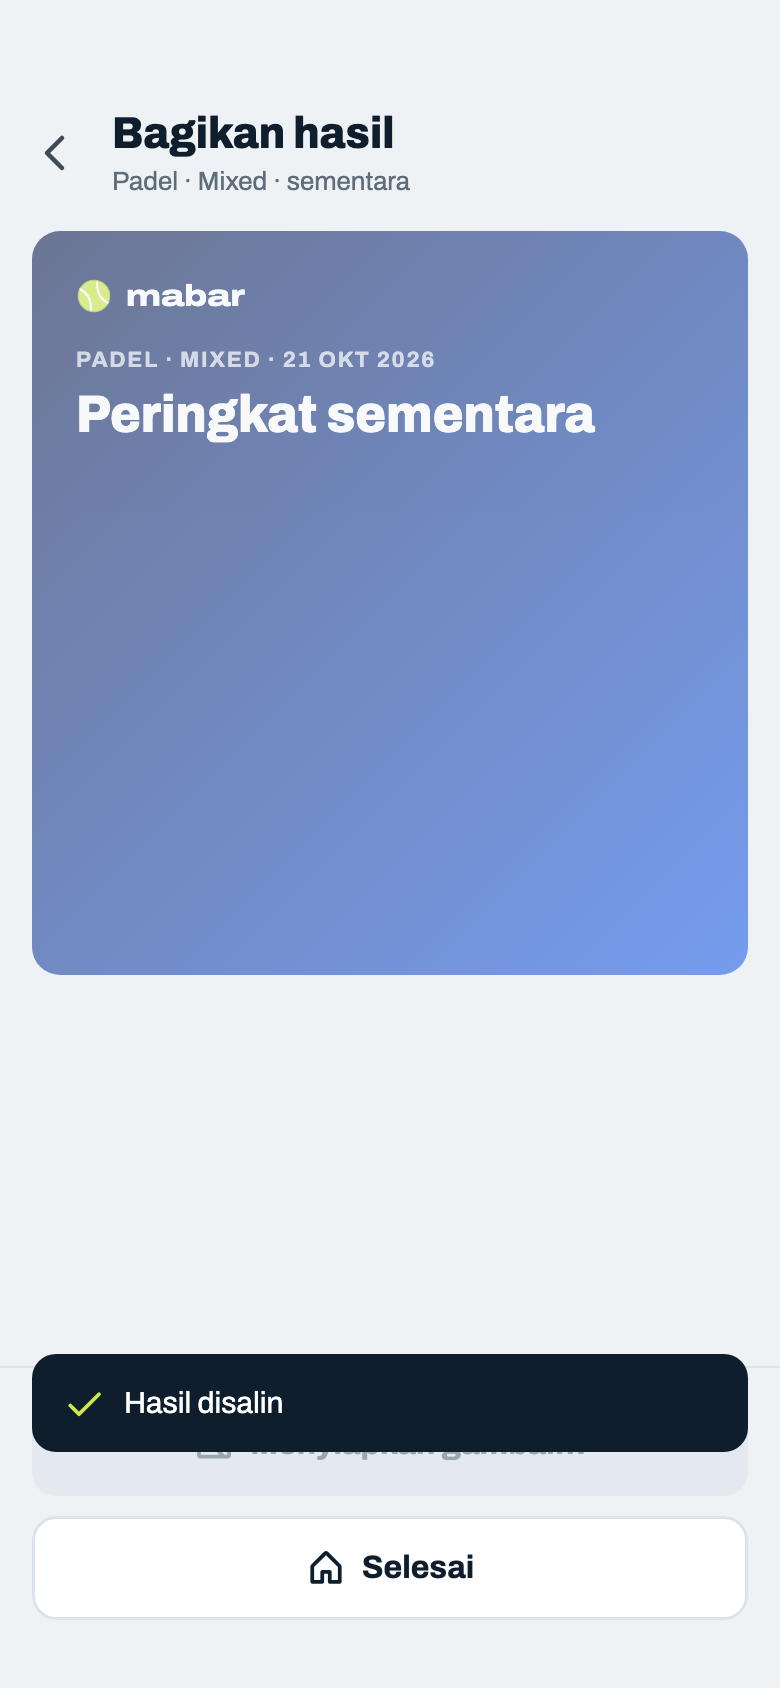
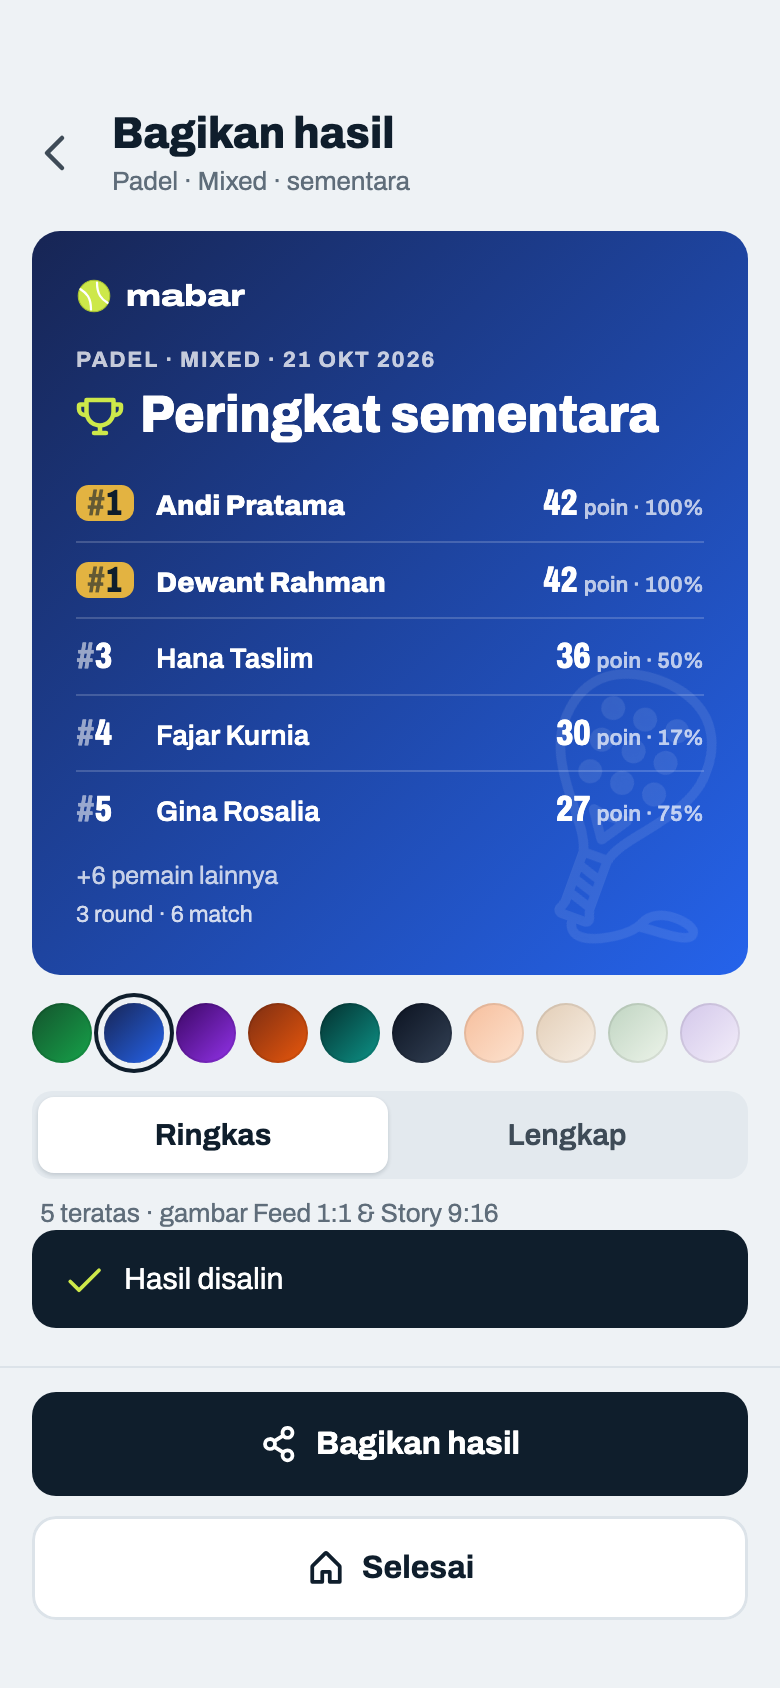
[major] Bagikan: golden 11c (share gagal) + toast di atas action bar
Keputusan host 2026-10-22: 11c menggambar layar Bagikan lengkap pada momen sesudah share gagal (tombol
aktif lagi, toast "Hasil disalin"); "Menyiapkan gambar…" tetap perilaku saat render. Toast selalu 19 pt di
atas action bar — showMabarToast mendapat jarak bawah opsional, layar Bagikan mengisinya dengan tinggi
action bar dua tombol (bawah toast 180 pt) supaya tidak menutupi "Bagikan hasil". Hi-fi + Cakupan
diperbarui, frame 11c dirender ulang, artifact v49.

diff --git a/design/hifi.html b/design/hifi.html
@@ -2054,19 +2054,39 @@ Citra L<span class="caret"></span></div><div class="tools"><span class="txtbtn">
     </div>
 
     <div class="scr">
-      <div class="cap"><b>11c</b><span>Menyiapkan gambar · gagal share</span></div>
+      <div class="cap"><b>11c</b><span>Gagal share · hasil disalin</span></div>
       <div class="app">
         <div class="appbar"><span class="icbtn"><svg class="ic"><use href="#i-back"/></svg></span><div class="t"><h1>Bagikan hasil</h1><p>Padel · Mixed · sementara</p></div></div>
         <div class="body" style="gap:14px">
-          <div class="poster" style="height:372px;background:linear-gradient(135deg,#172554,#2563EB);color:#fff;opacity:.6">
-            <div class="pin"><div style="display:flex;align-items:center;gap:7px;font-size:15px;font-weight:800;font-stretch:125%"><svg width="18" height="18" aria-hidden="true"><use href="#ball"/></svg>mabar</div><span class="eyebrow" style="margin-top:14px">Padel · Mixed · 21 Okt 2026</span><h3>Peringkat sementara</h3></div>
+          <div class="poster" style="height:372px;background:linear-gradient(135deg,#172554,#2563EB);color:#fff">
+            <img class="wm" src="img/racket_padel.png" alt="" style="filter:brightness(0) invert(1);transform:rotate(20deg)">
+            <div class="pin">
+              <div style="display:flex;align-items:center;gap:7px;font-size:15px;font-weight:800;font-stretch:125%"><svg width="18" height="18" aria-hidden="true"><use href="#ball"/></svg>mabar</div>
+              <span class="eyebrow" style="margin-top:14px">Padel · Mixed · 21 Okt 2026</span>
+              <h3><svg class="ic" style="color:#CDE84A"><use href="#i-trophy"/></svg>Peringkat sementara</h3>
+              <div style="margin-top:12px">
+                <div class="prow gold"><b class="r n">1</b><span class="nm">Andi Pratama</span><b class="pt n">42<small>poin · 100%</small></b></div>
+                <div class="prow gold"><b class="r n">1</b><span class="nm">Dewant Rahman</span><b class="pt n">42<small>poin · 100%</small></b></div>
+                <div class="prow"><b class="r n">3</b><span class="nm">Hana Taslim</span><b class="pt n">36<small>poin · 50%</small></b></div>
+                <div class="prow"><b class="r n">4</b><span class="nm">Fajar Kurnia</span><b class="pt n">30<small>poin · 17%</small></b></div>
+                <div class="prow"><b class="r n">5</b><span class="nm">Gina Rosalia</span><b class="pt n">27<small>poin · 75%</small></b></div>
+              </div>
+              <span class="more">+6 pemain lainnya</span>
+              <div class="foot"><span>3 round · 6 match</span></div>
+            </div>
           </div>
+          <div class="themes">
+            <span class="theme" style="background:linear-gradient(135deg,#14532D,#16A34A)"></span><span class="theme on" style="background:linear-gradient(135deg,#172554,#2563EB)"></span><span class="theme" style="background:linear-gradient(135deg,#3B0764,#9333EA)"></span><span class="theme" style="background:linear-gradient(135deg,#7C2D12,#EA580C)"></span><span class="theme" style="background:linear-gradient(135deg,#042F2E,#0D9488)"></span><span class="theme" style="background:linear-gradient(135deg,#0B1220,#334155)"></span><span class="theme" style="background:linear-gradient(135deg,#F6BE9C,#FDE3D0)"></span><span class="theme" style="background:linear-gradient(135deg,#E2CDB6,#F8EFE5)"></span>
+            <span class="theme" style="background:linear-gradient(135deg,#BFD4C1,#EDF4EA)"></span><span class="theme" style="background:linear-gradient(135deg,#D3C7EA,#F3EEFA)"></span>
+          </div>
+          <div class="seg"><b class="on">Ringkas</b><b>Lengkap</b></div>
+          <span class="gnote" style="margin-top:-6px">5 teratas · gambar Feed 1:1 &amp; Story 9:16</span>
         </div>
-        <div class="toast"><svg class="ic ic-s"><use href="#i-check"/></svg>Hasil disalin</div>
-        <div class="actionbar col"><span class="btn btn-off"><svg class="ic ic-s"><use href="#i-image"/></svg>Menyiapkan gambar…</span><span class="btn btn-secondary"><svg class="ic ic-s"><use href="#i-home"/></svg>Selesai</span></div>
+        <div class="toast" style="bottom:180px"><svg class="ic ic-s"><use href="#i-check"/></svg>Hasil disalin</div>
+        <div class="actionbar col"><span class="btn btn-primary"><svg class="ic ic-s"><use href="#i-share"/></svg>Bagikan hasil</span><span class="btn btn-secondary"><svg class="ic ic-s"><use href="#i-home"/></svg>Selesai</span></div>
       </div>
       <ul>
-        <li>Saat merender dua poster, tombol mati dengan teks "Menyiapkan gambar…" (ketukan ganda diabaikan).</li>
+        <li>Saat merender dua poster, tombol mati dengan teks "Menyiapkan gambar…" (ketukan ganda diabaikan). Frame ini menggambar momen sesudahnya: tombol aktif lagi dan toast tampil (keputusan host 2026-10-22).</li><li>Toast selalu 19 pt di atas action bar, seperti posisi bawaannya. Di sini action bar berisi dua tombol (161 pt), jadi bawah toast di 180 pt; posisi bawaan 118 pt untuk action bar satu tombol akan menutupi "Bagikan hasil" (keputusan host 2026-10-22).</li>
         <li>Kalau share sheet gagal (desktop/web tertentu), caption disalin ke clipboard dan muncul toast "Hasil disalin". Tidak ada tombol salin terpisah.</li>
         <li>Caption: semua baris peringkat; format Lengkap menambah "Hasil per Round". Baru: satuan "game"/"poin" mengikuti metode skor.</li>
       </ul>
@@ -2235,7 +2255,7 @@ Citra L<span class="caret"></span></div><div class="tools"><span class="txtbtn">
         <li>Generator Mixed: undian pemain seri dikunci per round (seed turnamen + nomor round), perlu test baru.</li>
         <li>Input Skor: satu angka besar per tim, keypad sendiri, batas angka per format di keypad.</li>
         <li>Mixed Final setelah diakhiri atau waktu habis dengan round terakhir lengkap; Peringkat M–K–S; Detail Fixed dua nama, Mixed dengan partner; istilah "pemain"; Bagikan status nyata, hitungan pasangan, tema default biru; "1 round (R9)".</li>
-        <li>Ikon app: opsi A di 01j — sudut lapangan tampak atas dari painter Beranda, garis putih 100%, bola di service box.</li><li>Simpanan turnamen membawa versi app yang menulisnya (<code>appVersion</code>, semver); data tanpa versi atau dari skema lama diabaikan, bukan dipaksa dibaca (2026-10-22).</li><li>Gambar Feed/Story (11d, 11f, 11g) memakai line-height 1,4 seperti kartu pratinjau, jadi kaki Feed Ringkas tetap di dalam padding (2026-10-22).</li><li>Keypad: kotak yang sudah penuh atau baru dipilih menerima ketikan berikutnya sebagai pengganti isinya, jadi yang mati hanya angka di atas batas (07a–07g digambar ulang dengan tombol mati); saat ubah skor (07i) semua angka mati sampai kotak diketuk (2026-10-22).</li><li>Tinggi tombol mengikuti niat desain: Lanjutkan di banner 46 pt (01e, 01f), Tambah di Kelola pemain 48 pt sejajar kolom nama (08a, 08b) (2026-10-22).</li><li>Transisi 01g: keyframe 200 ms digambar persis dari aturan (posisi garis 0,37, kaca belum tampak); nama lama hilang di 30% pertama (2026-10-22).</li><li>Data contoh Jadwal Fixed dibetulkan: 06c (R5) jadi Andi · Budi 6–5 Indra · Joko, Citra · Dewant vs Gina · Hana tidak dimainkan, Eko · Fajar istirahat — Indra · Joko sudah istirahat di R2, dan di round-robin 5 pasangan tiap pasangan istirahat tepat sekali. 06d dan 06e dilengkapi match court 2 dan baris Istirahat seperti 06a karena keadaannya sama (2026-10-22).</li><li>Frame lapisan (menu, dialog, sheet) menggambar layar di belakangnya persis sesuai keadaan layar itu: 06i dan 06j sama dengan 06h (match court 2, Istirahat, Batalkan R4), 06k menampilkan R1 yang baru dibuat dengan Istirahat dan action bar. Jadwal Fixed yang sudah diakhiri: ⋯ pudar dan tidak bisa diketuk karena menunya kosong (06c) (2026-10-22).</li><li>Aturan frame lapisan juga untuk 08a–08d: latar 08a = keadaan 06f, 08c/08d = 06l, 08b = Tennis R2 (Andi · Citra vs Budi · Dewant belum diisi, Batalkan R2 karena R2 belum ada skor). Daftar 08a digambar lengkap 11 baris (10 aktif + Kiki A keluar, urut daftar pemain awal); sheet setinggi 92% dan daftarnya digulir di dalam (2026-10-22).</li><li>Contoh Tennis Fixed 10 pemain di Jadwal (06a–06e) dan di Peringkat/Detail (09c, 10b) adalah dua turnamen contoh yang berbeda; jadwal round-robin-nya tidak perlu sama (2026-10-22).</li><li>Data contoh 01e/01h dibetulkan jadi "Round 4 · 6 dari 8 match" (R4 baru dibuat): "Round 3 · 6 dari 8" mustahil di Mixed 8 pemain karena round berikutnya baru dibuat setelah round terakhir lengkap (2026-10-22).</li>
+        <li>Ikon app: opsi A di 01j — sudut lapangan tampak atas dari painter Beranda, garis putih 100%, bola di service box.</li><li>Simpanan turnamen membawa versi app yang menulisnya (<code>appVersion</code>, semver); data tanpa versi atau dari skema lama diabaikan, bukan dipaksa dibaca (2026-10-22).</li><li>Gambar Feed/Story (11d, 11f, 11g) memakai line-height 1,4 seperti kartu pratinjau, jadi kaki Feed Ringkas tetap di dalam padding (2026-10-22).</li><li>Keypad: kotak yang sudah penuh atau baru dipilih menerima ketikan berikutnya sebagai pengganti isinya, jadi yang mati hanya angka di atas batas (07a–07g digambar ulang dengan tombol mati); saat ubah skor (07i) semua angka mati sampai kotak diketuk (2026-10-22).</li><li>Tinggi tombol mengikuti niat desain: Lanjutkan di banner 46 pt (01e, 01f), Tambah di Kelola pemain 48 pt sejajar kolom nama (08a, 08b) (2026-10-22).</li><li>Transisi 01g: keyframe 200 ms digambar persis dari aturan (posisi garis 0,37, kaca belum tampak); nama lama hilang di 30% pertama (2026-10-22).</li><li>Data contoh Jadwal Fixed dibetulkan: 06c (R5) jadi Andi · Budi 6–5 Indra · Joko, Citra · Dewant vs Gina · Hana tidak dimainkan, Eko · Fajar istirahat — Indra · Joko sudah istirahat di R2, dan di round-robin 5 pasangan tiap pasangan istirahat tepat sekali. 06d dan 06e dilengkapi match court 2 dan baris Istirahat seperti 06a karena keadaannya sama (2026-10-22).</li><li>Frame lapisan (menu, dialog, sheet) menggambar layar di belakangnya persis sesuai keadaan layar itu: 06i dan 06j sama dengan 06h (match court 2, Istirahat, Batalkan R4), 06k menampilkan R1 yang baru dibuat dengan Istirahat dan action bar. Jadwal Fixed yang sudah diakhiri: ⋯ pudar dan tidak bisa diketuk karena menunya kosong (06c) (2026-10-22).</li><li>Aturan frame lapisan juga untuk 08a–08d: latar 08a = keadaan 06f, 08c/08d = 06l, 08b = Tennis R2 (Andi · Citra vs Budi · Dewant belum diisi, Batalkan R2 karena R2 belum ada skor). Daftar 08a digambar lengkap 11 baris (10 aktif + Kiki A keluar, urut daftar pemain awal); sheet setinggi 92% dan daftarnya digulir di dalam (2026-10-22).</li><li>Contoh Tennis Fixed 10 pemain di Jadwal (06a–06e) dan di Peringkat/Detail (09c, 10b) adalah dua turnamen contoh yang berbeda; jadwal round-robin-nya tidak perlu sama (2026-10-22).</li><li>11c menggambar layar Bagikan lengkap (seperti 11a) pada momen sesudah share gagal: tombol "Bagikan hasil" aktif lagi dan toast "Hasil disalin"; "Menyiapkan gambar…" tetap perilaku saat render, tidak digambar terpisah. Toast selalu 19 pt di atas action bar (2026-10-22).</li><li>Data contoh 01e/01h dibetulkan jadi "Round 4 · 6 dari 8 match" (R4 baru dibuat): "Round 3 · 6 dari 8" mustahil di Mixed 8 pemain karena round berikutnya baru dibuat setelah round terakhir lengkap (2026-10-22).</li>
         <li>WO: Race to → pemenang N game; Best of &amp; Americano → rata-rata sendiri, minimal skor menang terkecil (⌊total ÷ 2⌋ + 1); kalah 0; selisih tidak berubah (mengganti "games WO tidak dihitung" di PRD 4.4; perlu test baru di <code>ranking_calculator</code>).</li>
         <li>Komponen lapisan: <code>showMabarConfirm</code> untuk semua dialog konfirmasi, <code>showMabarSheet</code> dengan lima jenis footer.</li>
       </ul>

diff --git a/test/hifi/screens/bagikan_test.dart b/test/hifi/screens/bagikan_test.dart
@@ -165,6 +165,40 @@ void main() {
     });
   }
 
+  /// Clipboard palsu: test tidak punya plugin platform.
+  void mockClipboard(WidgetTester tester, [void Function(String text)? onCopy]) {
+    tester.binding.defaultBinaryMessenger.setMockMethodCallHandler(SystemChannels.platform, (call) async {
+      if (call.method == 'Clipboard.setData') onCopy?.call((call.arguments as Map)['text'] as String);
+      return null;
+    });
+    addTearDown(() => tester.binding.defaultBinaryMessenger.setMockMethodCallHandler(SystemChannels.platform, null));
+  }
+
+  /// Render poster + share sheet berjalan di luar fake async; tanpa plugin share di test, share gagal dan
+  /// caption disalin.
+  Future<void> untilCopied(WidgetTester tester) async {
+    for (var i = 0; i < 30 && find.text('Hasil disalin').evaluate().isEmpty; i++) {
+      await tester.runAsync(() => Future<void>.delayed(const Duration(milliseconds: 100)));
+      await tester.pump(const Duration(milliseconds: 100));
+    }
+  }
+
+  testWidgets('11c share gagal: tombol aktif lagi, toast 19 pt di atas action bar', (tester) async {
+    await precacheHifiAssets(tester, [SportType.padel.assetPath]);
+    mockClipboard(tester);
+    await expectMatchesHifi(
+      tester,
+      screen(set1),
+      '11c',
+      act: (tester) async {
+        await tester.tap(find.text('Bagikan hasil').last);
+        await tester.pump();
+        await untilCopied(tester);
+      },
+    );
+    await tester.pump(const Duration(seconds: 3)); // toast hilang sendiri
+  });
+
   Future<ProviderContainer> pumpRouted(WidgetTester tester, ActiveTournament active) async {
     tester.view.physicalSize = const Size(390, 844) * hifiPixelRatio;
     tester.view.devicePixelRatio = hifiPixelRatio;
@@ -195,11 +229,7 @@ void main() {
 
   testWidgets('Bagikan: tombol mati saat menyiapkan gambar; share gagal → caption disalin + toast', (tester) async {
     String? copied;
-    tester.binding.defaultBinaryMessenger.setMockMethodCallHandler(SystemChannels.platform, (call) async {
-      if (call.method == 'Clipboard.setData') copied = (call.arguments as Map)['text'] as String;
-      return null;
-    });
-    addTearDown(() => tester.binding.defaultBinaryMessenger.setMockMethodCallHandler(SystemChannels.platform, null));
+    mockClipboard(tester, (text) => copied = text);
     await precacheHifiAssets(tester, [SportType.padel.assetPath]);
     await pumpRouted(tester, set1);
 
@@ -208,11 +238,7 @@ void main() {
     expect(find.text('Menyiapkan gambar…'), findsOneWidget);
     expect(tester.widget<MabarButton>(find.widgetWithText(MabarButton, 'Menyiapkan gambar…')).onPressed, isNull);
 
-    // Render poster + share sheet berjalan di luar fake async; tanpa plugin share di test, share gagal.
-    for (var i = 0; i < 30 && find.text('Hasil disalin').evaluate().isEmpty; i++) {
-      await tester.runAsync(() => Future<void>.delayed(const Duration(milliseconds: 100)));
-      await tester.pump(const Duration(milliseconds: 100));
-    }
+    await untilCopied(tester);
     expect(find.text('Hasil disalin'), findsOneWidget);
     expect(copied, contains('Peringkat Sementara'));
     expect(find.text('Bagikan hasil'), findsWidgets);

diff --git a/lib/features/share/share_result_screen.dart b/lib/features/share/share_result_screen.dart
@@ -31,6 +31,7 @@ class _ShareResultScreenState extends ConsumerState<ShareResultScreen> {
   ShareFormat _format = ShareFormat.ringkas;
   ShareTheme _theme = ShareTheme.biru;
   bool _sharing = false;
+  final _actionBar = GlobalKey();
 
   Future<XFile> _render(SharePosterData data, SharePosterTarget target) async {
     final bytes = await ScreenshotController().captureFromWidget(
@@ -60,7 +61,11 @@ class _ShareResultScreenState extends ConsumerState<ShareResultScreen> {
     } catch (_) {
       // Share sheet tidak tersedia (desktop/web tertentu): caption disalin.
       await Clipboard.setData(ClipboardData(text: caption));
-      if (mounted) showMabarToast(context, 'Hasil disalin');
+      if (mounted) {
+        // Action bar Bagikan dua tombol: toast tetap 19 pt di atasnya, tidak menutupi "Bagikan hasil".
+        final bar = _actionBar.currentContext?.size?.height;
+        showMabarToast(context, 'Hasil disalin', bottom: bar == null ? null : bar + 19);
+      }
     } finally {
       if (mounted) setState(() => _sharing = false);
     }
@@ -133,6 +138,7 @@ class _ShareResultScreenState extends ConsumerState<ShareResultScreen> {
             ),
           ),
           MabarActionBar(
+            key: _actionBar,
             column: true,
             children: [
               _sharing

diff --git a/lib/core/widgets/mabar_layers.dart b/lib/core/widgets/mabar_layers.dart
@@ -416,11 +416,13 @@ class MabarMenu<T> extends StatelessWidget {
 }
 
 /// `.toast` — pesan singkat bertinta di atas action bar (hanya "Hasil disalin", 11c), hilang sendiri.
-/// Diletakkan 19 pt di atas action bar: 84 + safe area bawah (minimal 12) dari bawah layar.
+/// Diletakkan 19 pt di atas action bar: bawaannya 84 + safe area bawah (minimal 12) dari bawah layar, untuk
+/// action bar satu tombol; layar dengan action bar lain memberi [bottom] (tinggi action bar + 19).
 void showMabarToast(
   BuildContext context,
   String message, {
   IconData icon = MabarIcons.check,
+  double? bottom,
 }) {
   final overlay = Overlay.of(context);
   late final OverlayEntry entry;
@@ -428,7 +430,7 @@ void showMabarToast(
     builder: (context) => Positioned(
       left: 16,
       right: 16,
-      bottom: 84 + max(12.0, MediaQuery.paddingOf(context).bottom),
+      bottom: bottom ?? 84 + max(12.0, MediaQuery.paddingOf(context).bottom),
       child: IgnorePointer(
         child: MabarToast(message: message, icon: icon),
       ),

diff --git a/design/spec/screens/11-bagikan.md b/design/spec/screens/11-bagikan.md
@@ -27,13 +27,14 @@ Komponen: `MabarAppBar`, `MabarButton`, `MabarIconButton`, `MabarActionBar`, `Ma
 - Tema lembut memakai tinta gelap tema itu untuk semua teks, garis, piala, dan watermark (tidak ada `Colors.white` langsung).
 - Baru: di Fixed hitungannya "pasangan", bukan "pemain" (juga di "+n pasangan lainnya").
 
-## 11c · Menyiapkan gambar · gagal share
+## 11c · Gagal share · hasil disalin
 
 ![11c](../../frames/11c.png)
 
-Komponen: `MabarAppBar`, `MabarButton`, `MabarIconButton`, `MabarActionBar`, `MabarToast`, `SharePoster`
+Komponen: `MabarAppBar`, `MabarButton`, `MabarIconButton`, `MabarActionBar`, `MabarGroup / MabarRow`, `MabarSegmented`, `MabarToast`, `SharePoster`
 
-- Saat merender dua poster, tombol mati dengan teks "Menyiapkan gambar…" (ketukan ganda diabaikan).
+- Saat merender dua poster, tombol mati dengan teks "Menyiapkan gambar…" (ketukan ganda diabaikan). Frame ini menggambar momen sesudahnya: tombol aktif lagi dan toast tampil (keputusan host 2026-10-22).
+- Toast selalu 19 pt di atas action bar, seperti posisi bawaannya. Di sini action bar berisi dua tombol (161 pt), jadi bawah toast di 180 pt; posisi bawaan 118 pt untuk action bar satu tombol akan menutupi "Bagikan hasil" (keputusan host 2026-10-22).
 - Kalau share sheet gagal (desktop/web tertentu), caption disalin ke clipboard dan muncul toast "Hasil disalin". Tidak ada tombol salin terpisah.
 - Caption: semua baris peringkat; format Lengkap menambah "Hasil per Round". Baru: satuan "game"/"poin" mengikuti metode skor.
 

diff --git a/design/spec/components.md b/design/spec/components.md
@@ -104,7 +104,7 @@ Dipakai di frame: 02a, 02b, 02c, 02d, 03a, 03b, 03c, 03d, 03e, 04a, 04b, 04c, 04
 Daftar bergaya pengaturan + label dan catatan grup.
 
 Kelas hi-fi: `.group`, `.row`, `.glabel`, `.gnote`  
-Dipakai di frame: 01a, 01b, 01c, 01i, 02b, 02c, 02d, 03a, 03b, 03c, 03d, 03e, 04a, 04b, 04c, 04d, 04e, 06a, 06b, 06c, 06d, 06e, 06f, 06g, 06h, 06i, 06j, 06k, 06l, 06m, 06n, 06o, 08a, 08b, 08c, 08d, 07j, 10a, 10b, 10c, 11a, 11b, 11e, 11h, 11i
+Dipakai di frame: 01a, 01b, 01c, 01i, 02b, 02c, 02d, 03a, 03b, 03c, 03d, 03e, 04a, 04b, 04c, 04d, 04e, 06a, 06b, 06c, 06d, 06e, 06f, 06g, 06h, 06i, 06j, 06k, 06l, 06m, 06n, 06o, 08a, 08b, 08c, 08d, 07j, 10a, 10b, 10c, 11a, 11b, 11c, 11e, 11h, 11i
 
 ```css
 .glabel { font-size: 13px; font-weight: 700; color: var(--ink-3); padding: 0 4px; margin-bottom: -8px; }
@@ -146,7 +146,7 @@ Dipakai di frame: 04a, 04b, 04c, 04d, 04e, 06a, 06b, 06c, 06d, 06e, 06f, 06g, 06
 Pilihan segmented.
 
 Kelas hi-fi: `.seg`, `.seg-wrap`  
-Dipakai di frame: 03a, 03b, 03c, 03d, 03e, 04a, 04b, 04c, 04d, 04e, 09a, 09b, 09c, 09d, 09e, 09f, 11a, 11b, 11e, 11h, 11i
+Dipakai di frame: 03a, 03b, 03c, 03d, 03e, 04a, 04b, 04c, 04d, 04e, 09a, 09b, 09c, 09d, 09e, 09f, 11a, 11b, 11c, 11e, 11h, 11i
 
 ```css
 .seg { display: flex; background: var(--fill); border-radius: 10px; padding: 3px; gap: 2px; }

diff --git a/CLAUDE.md b/CLAUDE.md
@@ -185,7 +185,8 @@ Metode peringkat yang dipilih host hidup di `rankingMethodProvider`, klasemennya
 Bagikan (`features/share/share_result_screen.dart`) mengirim **gambar**, bukan cuma teks: `SharePoster` (target Feed
 1080×1080 dan Story 1080×1920, `SharePosterTarget.exportPixelRatio`) di-render lewat `screenshot` lalu dibagikan
 dengan `Share.shareXFiles` lewat share sheet sistem, teks hasil (`ResultTextBuilder`) jadi caption. Gagal share →
-caption disalin + toast "Hasil disalin". Isi poster dari `sharePosterData()` (`share_content.dart`): Ringkas = 5
+caption disalin + toast "Hasil disalin" (selalu 19 pt di atas action bar: `showMabarToast(bottom:)` diisi tinggi
+action bar dua tombol). Isi poster dari `sharePosterData()` (`share_content.dart`): Ringkas = 5
 teratas + "+n pemain/pasangan lainnya", Lengkap = semua yang bernomor; Fixed menulis nilai + satuan saja, Mixed
 "42 poin · 100%" / "100% · +12". `ShareTheme` punya 10 gradien (6 gelap bertinta putih + 4 lembut bertinta gelap);
 semua warna poster diturunkan dari `theme.ink` — jangan menaruh `Colors.white` langsung. Tema & format tidak disimpan.
